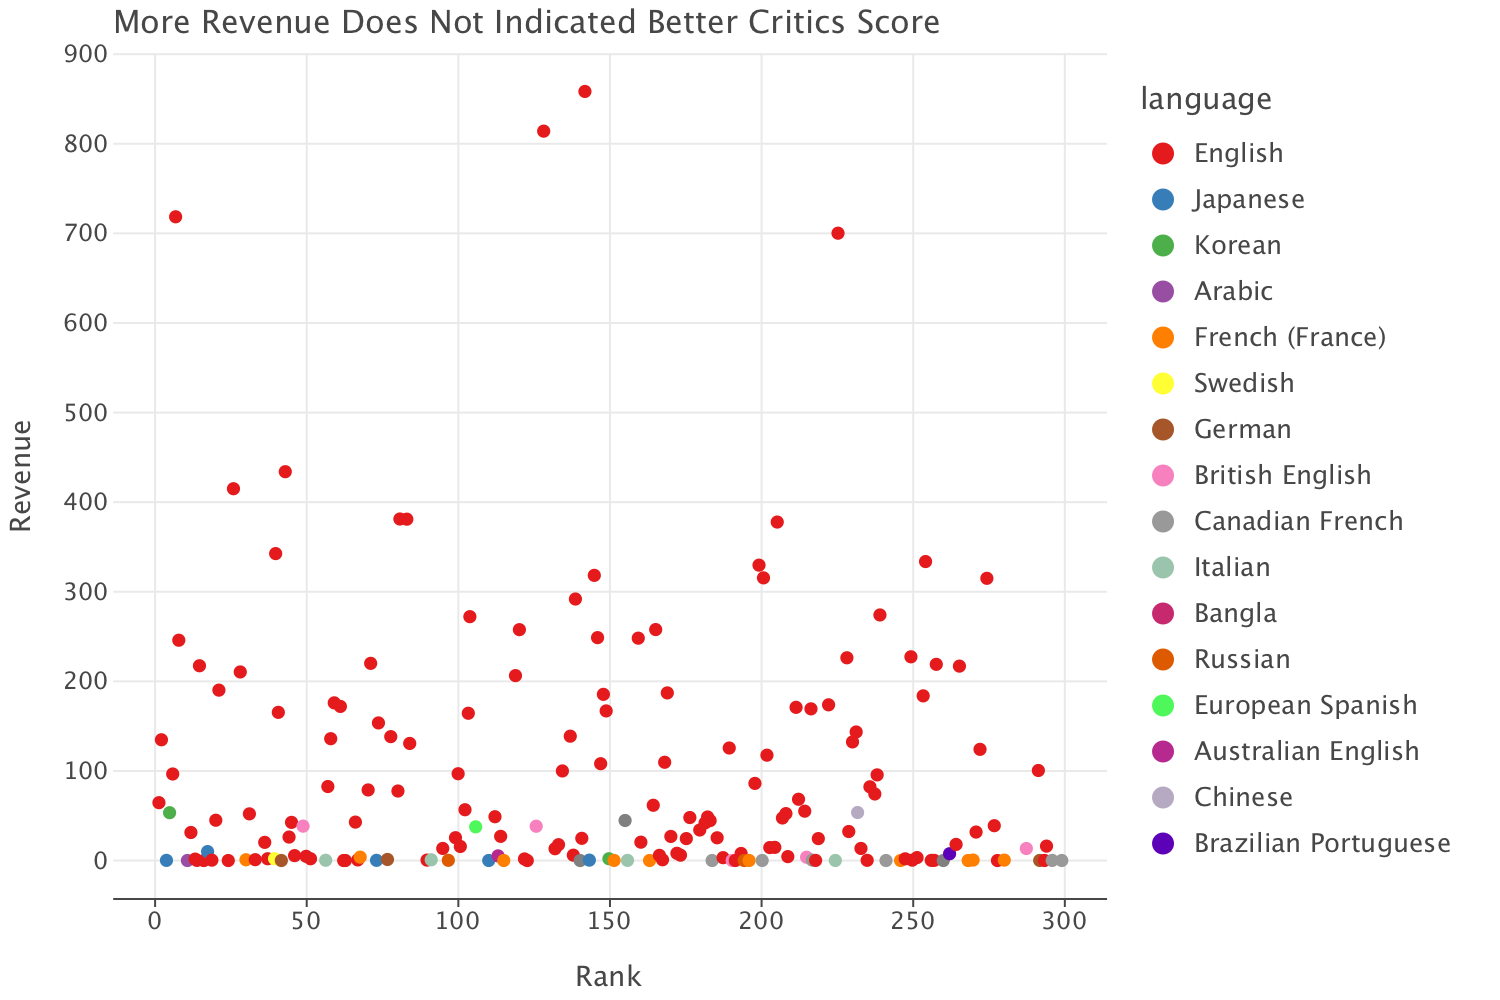
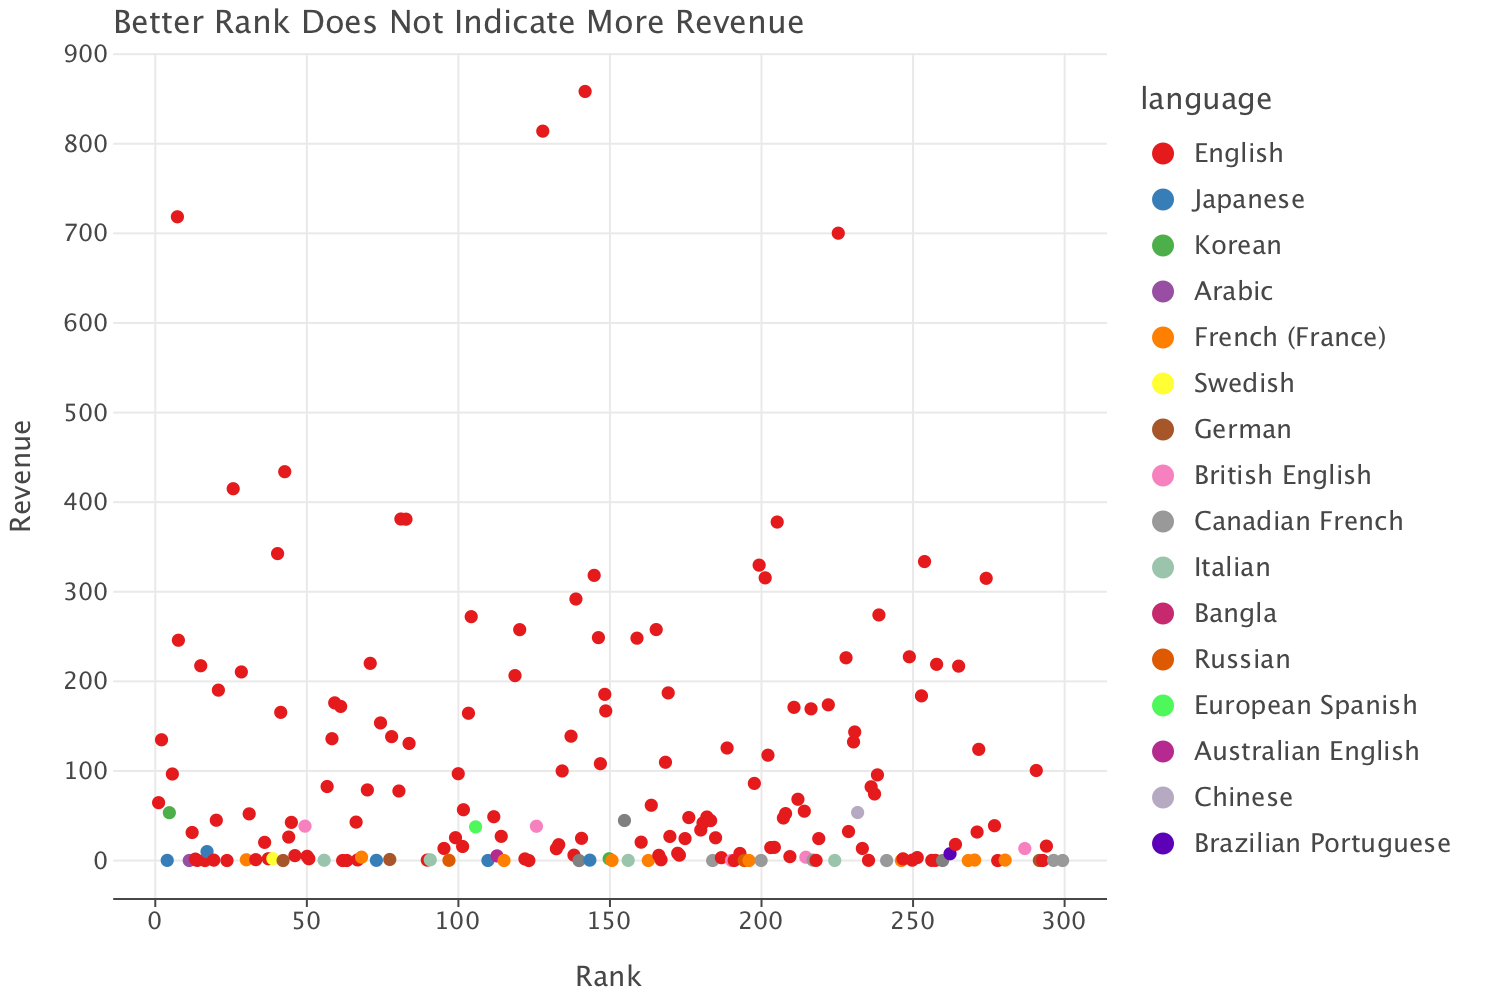
final touches

diff --git a/docs/index.md b/docs/index.md
@@ -40,18 +40,18 @@ The data was collected from the Rotten Tomatoe top 300 movies list and within ea
 
 ![Fig. 8 -- Runtime Distribution Across Genres](./figures/runtime_distribution_genre.png)
 
-- **one**
-- **two**
-- **three**
-- **four**
+- **Rank and Revenue**: Better ranked movies don't correspond with higher revenues. This reaffirms that critics opinions don't match audience reception entirely.
+- **Rank and Runtime**: The runtime of movies and their ranks have no correlation. All English spoken movies were removed to observe trends of the foreign movies selected. There's no obvious pattern among different language in terms of success or runtime.
+- **Move Theater Release Date and Rank**: Critics do not prefer movies from any specific time period.
+- **Runtime Distribution Across Genres**: Movie genres seem to have distinctive runtime distriubtions. This can be possibly that movies within the same genre cover similar storylines which require certain screentimes. 
 
 ## Discussion
 
-The analysis reveals that bread prices at Waitrose are influenced by several factors, including the type of bread, production costs, and seasonal demand. Sourdough bread, being a premium product, commands the highest price, while staple items like white bread maintain a more stable and lower price point.
+The analysis reveals that movie critics and regular audience members have noticeably different opinions on movies. As the financial success of movies is mainly dependent on audience reception, it would be interesting to see how directors and production companies try to tailor to their interests and whether that would conflict with critics. The most distinctive differences among movies fall across genres, and the runtime, language, and release dates seem to have no strong affect on ratings.
 
 ## Conclusion
 
-This study provides valuable insights into the pricing trends of bread at Waitrose. Understanding these trends can help consumers make informed decisions and potentially lead to savings on their grocery bills. Future studies could expand on this analysis by comparing prices with other supermarkets to give consumers a broader perspective.
+This study provides insights into the review trends of the top movies within Rotten Tomatoes' ranking. Understanding these trends can help producers know what types of movies succeed and make the most money. I could further analyze this data set by looking into the age-ratings and maybe even technical aspects like the aspect ratios. Further studies could include the analysis of movie plots using summary descriptions. Overall, this analysis provides a foundation for which directions to further explore successful movies.
 
 ## Acknowledgements
 
@@ -61,6 +61,6 @@ I would like to thank my teammate Mert Tarim for being an awesome teammate.
 
 This assignment was completed with the assistance of ChatGPT.
 
-More specifically, I usedd it in the following ways:
+More specifically, I used it in the following way:
 
-- When I was trying to read from the SQL webpages I have created and trying to merge those pages in a single dataframe, I had some problems with the syntax. I have used ChatGPT to correct the syntax of my code for reading from the database.
+- I had syntatical erros when I was trying to read the SQL tables I created and tried to merge htem into a single dataframe. ChatGPT corrected the syntax of my code for reading from the database.
